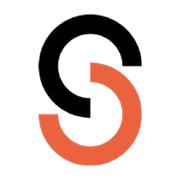
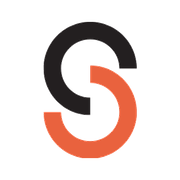
Rebrand site from Soch Catalyst to Signal House
- Replace nav/footer logo with cropped, background-removed Signal
  House mark (full-color for nav, white recolor for dark footer)
- Regenerate favicon.ico, icon.png, apple-icon.png, favicon-icon.png
  from the new "S" mark
- Rename "Soch Catalyst"/"Soch" to "Signal House" across page titles,
  meta tags, SITE.name, nav/footer labels, and narrative copy (About,
  testimonials, case studies)
- Leave live infrastructure untouched: email, Cal.com booking URL,
  n8n webhook URL, and sochcatalyst.com domain

Changed region(s): [[0.1944, 0.0556, 0.8056, 0.9444], [0.5, 0.4444, 0.6111, 0.5], [0.6111, 0.5, 0.6389, 0.5278]]

diff --git a/app/about/page.tsx b/app/about/page.tsx
@@ -8,14 +8,14 @@ import AnimateIn from "@/components/AnimateIn";
 export const metadata: Metadata = {
   title: "About. Built for Founders Done Being Invisible",
   description:
-    "Soch Catalyst is a LinkedIn agency for founders and senior executives. We run personal branding, content, outreach and profile management, so your LinkedIn brings you work.",
+    "Signal House is a LinkedIn agency for founders and senior executives. We run personal branding, content, outreach and profile management, so your LinkedIn brings you work.",
 };
 
 const VALUES: { icon: IconName; title: string; body: string }[] = [
   {
     icon: "shield",
     title: "Substance over hacks",
-    body: "The LinkedIn services market is full of shortcuts: engagement pods, follow-for-follow tactics, algorithm hacks. They work briefly and erode credibility permanently. Every account Soch runs is built on a genuine point of view, published consistently, without shortcuts.",
+    body: "The LinkedIn services market is full of shortcuts: engagement pods, follow-for-follow tactics, algorithm hacks. They work briefly and erode credibility permanently. Every account Signal House runs is built on a genuine point of view, published consistently, without shortcuts.",
   },
   {
     icon: "chat",
@@ -30,7 +30,7 @@ const VALUES: { icon: IconName; title: string; body: string }[] = [
   {
     icon: "spark",
     title: "Partners, not vendors",
-    body: "Soch takes a small number of clients at a time, deliberately. We are not a content mill. Every client gets direct access to the people doing the work. If something is not working, we say so. If the strategy needs changing, we change it. That is what a partner does.",
+    body: "Signal House takes a small number of clients at a time, deliberately. We are not a content mill. Every client gets direct access to the people doing the work. If something is not working, we say so. If the strategy needs changing, we change it. That is what a partner does.",
   },
 ];
 
@@ -53,7 +53,7 @@ export default function AboutPage() {
           </AnimateIn>
           <AnimateIn delay={100}>
             <p className="lead mt-6 max-w-2xl">
-              Soch Catalyst is a LinkedIn positioning agency led by Umair Shahzad, an award-winning LinkedIn creator and LinkedIn Top Voice, recognised globally in Venture Capital. We work with founders and senior executives who want their LinkedIn presence to reflect the seriousness of what they are building.
+              Signal House is a LinkedIn positioning agency led by Umair Shahzad, an award-winning LinkedIn creator and LinkedIn Top Voice, recognised globally in Venture Capital. We work with founders and senior executives who want their LinkedIn presence to reflect the seriousness of what they are building.
             </p>
           </AnimateIn>
         </div>
@@ -62,7 +62,7 @@ export default function AboutPage() {
             {/* eslint-disable-next-line @next/next/no-img-element */}
             <img
               src="http://cdn.prod.website-files.com/68e7ded517d0693d2c345250/6a3237b03252cba28a8ab02c_2%20(2).jpg"
-              alt="Soch Catalyst team"
+              alt="Signal House team"
               style={{ width: "100%", height: "auto", maxHeight: "580px", objectFit: "cover", objectPosition: "center top", display: "block", borderRadius: "16px", margin: 0, padding: 0 }}
             />
           </AnimateIn>
@@ -89,7 +89,7 @@ export default function AboutPage() {
                 from doing the positioning work first.
               </p>
               <p className="font-medium text-ink">
-                Soch Catalyst was built to do that work.
+                Signal House was built to do that work.
               </p>
             </div>
           </Reveal>
@@ -106,11 +106,11 @@ export default function AboutPage() {
               </p>
               <figcaption className="mt-6 flex items-center gap-3 border-t border-dashed border-line pt-6">
                 <span className="inline-flex h-11 w-11 items-center justify-center rounded-full bg-brand text-sm font-bold text-white">
-                  SC
+                  SH
                 </span>
                 <span className="leading-tight">
                   <span className="block text-sm font-semibold text-ink">
-                    The Soch Catalyst team
+                    The Signal House team
                   </span>
                   <span className="block text-xs text-muted">
                     Your LinkedIn growth partners
@@ -171,10 +171,10 @@ export default function AboutPage() {
                 trust and credibility are not optional.
               </p>
               <p>
-                Before starting Soch, Umair managed LinkedIn strategy for founders
+                Before starting Signal House, Umair managed LinkedIn strategy for founders
                 in institutional finance and construction, industries where a single
                 poorly placed post can damage relationships built over years. That
-                experience shaped the Soch approach: positioning first, content
+                experience shaped the Signal House approach: positioning first, content
                 second, always in your voice, always pointed at a business outcome.
               </p>
               <p>
@@ -229,10 +229,10 @@ export default function AboutPage() {
               </p>
               <figcaption className="mt-4 flex items-center gap-2.5 border-t border-dashed border-line pt-4">
                 <span className="inline-flex h-8 w-8 items-center justify-center rounded-full bg-brand text-xs font-bold text-white">
-                  SC
+                  SH
                 </span>
                 <span className="text-xs font-semibold text-ink">
-                  The Soch Catalyst team
+                  The Signal House team
                 </span>
               </figcaption>
             </figure>

diff --git a/lib/content.ts b/lib/content.ts
@@ -1,5 +1,5 @@
 // ------------------------------------------------------------------
-//  Soch Catalyst - single source of content & config.
+//  Signal House - single source of content & config.
 //  Copy, services, process, proof and the scheduler link all live here
 //  so the client can update everything from one file.
 // ------------------------------------------------------------------
@@ -13,7 +13,7 @@ export const HERO = {
 };
 
 export const SITE = {
-  name: "Soch Catalyst",
+  name: "Signal House",
   tagline: "LinkedIn growth for founders and senior executives.",
   email: "umair@sochcatalyst.com",
   linkedin: "https://www.linkedin.com/in/consult-with-umair/",
@@ -93,7 +93,7 @@ export const SERVICES: Service[] = [
     title: "Personal Branding Strategy",
     hook: "Be the name your market already trusts.",
     description:
-      "Before we write anything, we establish what you stand for and who needs to hear it. Your narrative strategy, content pillars, and messaging framework become the foundation that every post, outreach message, and conversation builds on. This is the work most services skip. It is the reason Soch results compound.",
+      "Before we write anything, we establish what you stand for and who needs to hear it. Your narrative strategy, content pillars, and messaging framework become the foundation that every post, outreach message, and conversation builds on. This is the work most services skip. It is the reason Signal House results compound.",
     points: [
       "Positioning & messaging pillars",
       "A point of view you own",
@@ -119,7 +119,7 @@ export const SERVICES: Service[] = [
     title: "LinkedIn Growth Audit",
     hook: "Know exactly what is holding you back.",
     description:
-      "A straight read on your profile, content and outreach. We show you what is working, what is not, and the moves that matter most over the next 90 days. Every engagement with Soch begins with a version of this audit.",
+      "A straight read on your profile, content and outreach. We show you what is working, what is not, and the moves that matter most over the next 90 days. Every engagement with Signal House begins with a version of this audit.",
     points: [
       "Profile & content teardown",
       "Competitor & positioning gaps",
@@ -211,7 +211,7 @@ export const CASE_STUDIES: CaseStudy[] = [
       { value: "1.5 hrs", label: "Founder time on content/week (from 5)" },
     ],
     quote:
-      "Soch didn't just help us post more consistently, they helped us figure out what Byzantine actually stands for in the market.",
+      "Signal House didn't just help us post more consistently, they helped us figure out what Byzantine actually stands for in the market.",
     author: "Gaia Ferrero",
     authorRole: "Founder & CEO, Byzantine",
     accent: "#0a3d6b",
@@ -232,7 +232,7 @@ export const CASE_STUDIES: CaseStudy[] = [
       { value: "6", label: "Formal proposals sent in 6 weeks" },
     ],
     quote:
-      "Before Soch, I was having a lot of conversations that went nowhere. Now every conversation starts from a position of credibility.",
+      "Before Signal House, I was having a lot of conversations that went nowhere. Now every conversation starts from a position of credibility.",
     author: "Biola Babawale",
     authorRole: "Founder & CEO, Cycle Together",
     accent: "#1a6b3c",
@@ -274,7 +274,7 @@ export const CASE_STUDIES: CaseStudy[] = [
       { value: "100%", label: "Posting consistency maintained" },
     ],
     quote:
-      "Soch fixed that. And they did it without changing what Brenna and Co. is. They just made it visible to the right people at the right moment.",
+      "Signal House fixed that. And they did it without changing what Brenna and Co. is. They just made it visible to the right people at the right moment.",
     author: "Kaitlin Malaspina",
     authorRole: "Principal & Founder, Brenna & Co.",
     accent: "#4a2c6e",

diff --git a/app/layout.tsx b/app/layout.tsx
@@ -28,11 +28,11 @@ const SITE_URL = "https://sochcatalyst.com";
 export const metadata: Metadata = {
   metadataBase: new URL(SITE_URL),
   title: {
-    default: "Soch Catalyst: LinkedIn Growth for Founders & CEOs",
-    template: "%s · Soch Catalyst",
+    default: "Signal House: LinkedIn Growth for Founders & CEOs",
+    template: "%s · Signal House",
   },
   description:
-    "Soch is a LinkedIn positioning agency for founders and senior executives. We build the narrative strategy, content system, and outreach engine that makes you the most credible voice in your space.",
+    "Signal House is a LinkedIn positioning agency for founders and senior executives. We build the narrative strategy, content system, and outreach engine that makes you the most credible voice in your space.",
   keywords: [
     "LinkedIn growth agency",
     "personal branding for founders",
@@ -41,18 +41,18 @@ export const metadata: Metadata = {
     "LinkedIn profile optimisation",
   ],
   openGraph: {
-    title: "Soch Catalyst: LinkedIn Growth for Founders & CEOs",
+    title: "Signal House: LinkedIn Growth for Founders & CEOs",
     description:
-      "Soch is a LinkedIn positioning agency for founders and senior executives. We build the narrative strategy, content system, and outreach engine that makes you the most credible voice in your space.",
+      "Signal House is a LinkedIn positioning agency for founders and senior executives. We build the narrative strategy, content system, and outreach engine that makes you the most credible voice in your space.",
     url: SITE_URL,
-    siteName: "Soch Catalyst",
+    siteName: "Signal House",
     type: "website",
   },
   twitter: {
     card: "summary_large_image",
-    title: "Soch Catalyst: LinkedIn Growth for Founders & CEOs",
+    title: "Signal House: LinkedIn Growth for Founders & CEOs",
     description:
-      "Soch is a LinkedIn positioning agency for founders and senior executives. We build the narrative strategy, content system, and outreach engine that makes you the most credible voice in your space.",
+      "Signal House is a LinkedIn positioning agency for founders and senior executives. We build the narrative strategy, content system, and outreach engine that makes you the most credible voice in your space.",
   },
 };
 

diff --git a/app/case-studies/kaitlin-malaspina/page.tsx b/app/case-studies/kaitlin-malaspina/page.tsx
@@ -3,9 +3,9 @@ import { Reveal } from "@/components/ui/Reveal";
 import { StatCounter } from "@/components/StatCounter";
 
 export const metadata: Metadata = {
-  title: "Kaitlin Malaspina, Brenna & Co. | Soch Catalyst Case Study",
+  title: "Kaitlin Malaspina, Brenna & Co. | Signal House Case Study",
   description:
-    "How Soch Catalyst made Brenna & Co.'s distinctive Private Operating House offer legible to the right founders: 3× profile view growth, 22% outreach reply rate, and 8 qualified conversations in 12 weeks.",
+    "How Signal House made Brenna & Co.'s distinctive Private Operating House offer legible to the right founders: 3× profile view growth, 22% outreach reply rate, and 8 qualified conversations in 12 weeks.",
 };
 
 const HERO_STATS = [
@@ -203,7 +203,7 @@ export default function KaitlinMalaspinaPage() {
                 <p>
                   But LinkedIn was not converting at the level the work deserved. The right founders
                   were on LinkedIn every day. They were just not finding her before they had already
-                  found someone else, or decided to keep carrying it alone. She came to Soch to build
+                  found someone else, or decided to keep carrying it alone. She came to Signal House to build
                   the infrastructure that matched what the firm had already built in the real world.
                 </p>
               </div>
@@ -452,7 +452,7 @@ export default function KaitlinMalaspinaPage() {
                   >
                     It is somewhat ironic that the person who builds operational
                     infrastructure for founders had not built the right infrastructure
-                    for her own channel. Soch fixed that. And they did it without
+                    for her own channel. Signal House fixed that. And they did it without
                     changing what Brenna and Co. is. They just made it visible to
                     the right people at the right moment.
                   </p>

diff --git a/app/case-studies/biola-babawale/page.tsx b/app/case-studies/biola-babawale/page.tsx
@@ -3,9 +3,9 @@ import { Reveal } from "@/components/ui/Reveal";
 import { StatCounter } from "@/components/StatCounter";
 
 export const metadata: Metadata = {
-  title: "Biola Babawale, Cycle Together | Soch Catalyst Case Study",
+  title: "Biola Babawale, Cycle Together | Signal House Case Study",
   description:
-    "How Soch Catalyst gave Cycle Together founder Biola Babawale the LinkedIn presence her mission deserved: 3× follower growth, 5+ partnership conversations, and 100% content consistency.",
+    "How Signal House gave Cycle Together founder Biola Babawale the LinkedIn presence her mission deserved: 3× follower growth, 5+ partnership conversations, and 100% content consistency.",
 };
 
 const HERO_STATS = [
@@ -198,7 +198,7 @@ export default function BiolaBabawale() {
                   reach, corporate sponsors, sport and wellness organisations,
                   community funders, and like-minded founders, had no easy way
                   to find her or understand what Cycle Together stood for. She came to
-                  Soch to fix that. Not to grow follower numbers for their own sake, but
+                  Signal House to fix that. Not to grow follower numbers for their own sake, but
                   to make her LinkedIn presence do actual work for her mission.
                 </p>
               </div>
@@ -266,7 +266,7 @@ export default function BiolaBabawale() {
                     >
                       I had so much to say about what we&rsquo;re building, but I
                       couldn&rsquo;t figure out how to say it on LinkedIn in a way
-                      that felt right. Soch helped me find that voice, and
+                      that felt right. Signal House helped me find that voice, and
                       then made sure it showed up every single week.
                     </p>
                     <figcaption className="mt-5 border-t border-dashed border-line pt-5">

diff --git a/app/case-studies/gaia-antonescu/page.tsx b/app/case-studies/gaia-antonescu/page.tsx
@@ -3,9 +3,9 @@ import { Reveal } from "@/components/ui/Reveal";
 import { StatCounter } from "@/components/StatCounter";
 
 export const metadata: Metadata = {
-  title: "Gaia Ferrero, Byzantine | Soch Catalyst Case Study",
+  title: "Gaia Ferrero, Byzantine | Signal House Case Study",
   description:
-    "How Soch Catalyst rebuilt Gaia Ferrero's LinkedIn presence from the ground up, generating 100% posting consistency, 4× profile view growth, and 12+ qualified inbound conversations in 90 days.",
+    "How Signal House rebuilt Gaia Ferrero's LinkedIn presence from the ground up, generating 100% posting consistency, 4× profile view growth, and 12+ qualified inbound conversations in 90 days.",
 };
 
 const HERO_STATS = [
@@ -195,7 +195,7 @@ export default function GaiaAntonescuPage() {
                   Her profile still read like a CV from three years ago.
                 </p>
                 <p>
-                  She came to Soch not because she didn&rsquo;t understand LinkedIn, but
+                  She came to Signal House not because she didn&rsquo;t understand LinkedIn, but
                   because she understood it well enough to know she wasn&rsquo;t doing it
                   justice. She needed a partner who could take full ownership of her
                   presence, strategy, content, and outreach, so she could
@@ -267,7 +267,7 @@ export default function GaiaAntonescuPage() {
                       style={{ fontFamily: "var(--font-display)", fontWeight: 500 }}
                     >
                       I knew what good LinkedIn looked like. I just couldn&rsquo;t
-                      make it happen alongside everything else. Handing it to Soch
+                      make it happen alongside everything else. Handing it to Signal House
                       was the right call. Within a few weeks it felt like my
                       profile finally sounded like me.
                     </p>

diff --git a/app/case-studies/shahzad-akhtar/page.tsx b/app/case-studies/shahzad-akhtar/page.tsx
@@ -3,9 +3,9 @@ import { Reveal } from "@/components/ui/Reveal";
 import { StatCounter } from "@/components/StatCounter";
 
 export const metadata: Metadata = {
-  title: "Shahzad Akhtar, Strateasy Consulting | Soch Catalyst Case Study",
+  title: "Shahzad Akhtar, Strateasy Consulting | Signal House Case Study",
   description:
-    "How Soch Catalyst turned Shahzad Akhtar's 28 years of practitioner expertise into a LinkedIn presence that generates consulting pipeline: 6× profile view growth, 29% outreach reply rate, and 11 qualified conversations in 5 months.",
+    "How Signal House turned Shahzad Akhtar's 28 years of practitioner expertise into a LinkedIn presence that generates consulting pipeline: 6× profile view growth, 29% outreach reply rate, and 11 qualified conversations in 5 months.",
 };
 
 const HERO_STATS = [
@@ -206,7 +206,7 @@ export default function ShahzadAkhtarPage() {
                 <p>
                   But his LinkedIn told none of that story in a way that generated pipeline.
                   Every new engagement still started from zero, rebuilt on reputation,
-                  referral, and being in the right room. He came to Soch to fix that:
+                  referral, and being in the right room. He came to Signal House to fix that:
                   to build a presence that did the introduction before the meeting, and
                   shortened the trust-building cycle with the right people.
                 </p>

diff --git a/app/services/page.tsx b/app/services/page.tsx
@@ -6,7 +6,7 @@ import AnimateIn from "@/components/AnimateIn";
 export const metadata: Metadata = {
   title: "Services. LinkedIn Growth, End to End",
   description:
-    "Profile optimisation, content, lead generation, personal branding, coaching and audits. The full Soch Catalyst LinkedIn system for founders and senior executives.",
+    "Profile optimisation, content, lead generation, personal branding, coaching and audits. The full Signal House LinkedIn system for founders and senior executives.",
 };
 
 export default function ServicesPage() {
@@ -18,7 +18,7 @@ export default function ServicesPage() {
             <div className="min-w-0 md:[flex:0_0_45%] md:pr-10">
               <AnimateIn delay={0}>
                 <h1 className="text-display text-[clamp(2.5rem,1.5rem+3.2vw,3.9rem)]">
-                  Every service Soch Catalyst offers. Take the full system or start with the piece you need most.
+                  Every service Signal House offers. Take the full system or start with the piece you need most.
                 </h1>
               </AnimateIn>
               <AnimateIn delay={100}>

diff --git a/components/Logo.tsx b/components/Logo.tsx
@@ -8,19 +8,19 @@ export function Logo({
   className?: string;
   variant?: "dark" | "light";
 }) {
-  // "dark" variant = dark logo on light bg (navbar); "light" variant = light logo on dark bg (footer)
+  // "dark" variant = full-color logo on light bg (navbar); "light" variant = white logo on dark bg (footer)
   const src = variant === "light"
-    ? "/soch-logo-dark.png"
-    : "/soch-logo-light.png";
+    ? "/signal-house-logo-white.png"
+    : "/signal-house-logo.png";
 
   return (
-    <Link href="/" aria-label="Soch Catalyst home" className={`inline-flex items-center ${className}`}>
+    <Link href="/" aria-label="Signal House home" className={`inline-flex items-center ${className}`}>
       <Image
         src={src}
-        alt="Soch Catalyst"
-        width={160}
-        height={52}
-        className="h-[52px] w-auto object-contain rounded-none bg-transparent"
+        alt="Signal House"
+        width={708}
+        height={279}
+        className="h-11 w-auto object-contain rounded-none bg-transparent"
         priority
       />
     </Link>

diff --git a/components/AuditModal.tsx b/components/AuditModal.tsx
@@ -236,7 +236,7 @@ export function AuditModal() {
                   />
                   <label htmlFor="audit-consent" className="cursor-pointer text-xs leading-relaxed text-slate">
                     By checking this box, I consent to receive communications from{" "}
-                    <span className="font-semibold text-ink">Soch Catalyst</span> about LinkedIn Audit,
+                    <span className="font-semibold text-ink">Signal House</span> about LinkedIn Audit,
                     Strategy Call booking and other relevant updates.
                   </label>
                 </div>

diff --git a/app/case-studies/page.tsx b/app/case-studies/page.tsx
@@ -7,9 +7,9 @@ import { CTAS } from "@/lib/content";
 import AnimateIn from "@/components/AnimateIn";
 
 export const metadata: Metadata = {
-  title: "Case Studies: Client Results | Soch Catalyst",
+  title: "Case Studies: Client Results | Signal House",
   description:
-    "Real results from Soch Catalyst client engagements across LinkedIn strategy, personal branding, and go-to-market positioning.",
+    "Real results from Signal House client engagements across LinkedIn strategy, personal branding, and go-to-market positioning.",
 };
 
 const CARDS = [

diff --git a/components/Hero.tsx b/components/Hero.tsx
@@ -17,7 +17,7 @@ export function Hero() {
           </h1>
 
           <p className="lead text-[clamp(0.95rem,0.88rem+0.28vw,1.1rem)] mt-5 animate-fade-up [animation-delay:160ms]">
-            Soch Catalyst is a LinkedIn agency for founders and senior executives. We handle
+            Signal House is a LinkedIn agency for founders and senior executives. We handle
             your profile, content and outreach, so you get inbound, booked calls, and
             a name people trust. We do the work. You approve it.
           </p>
